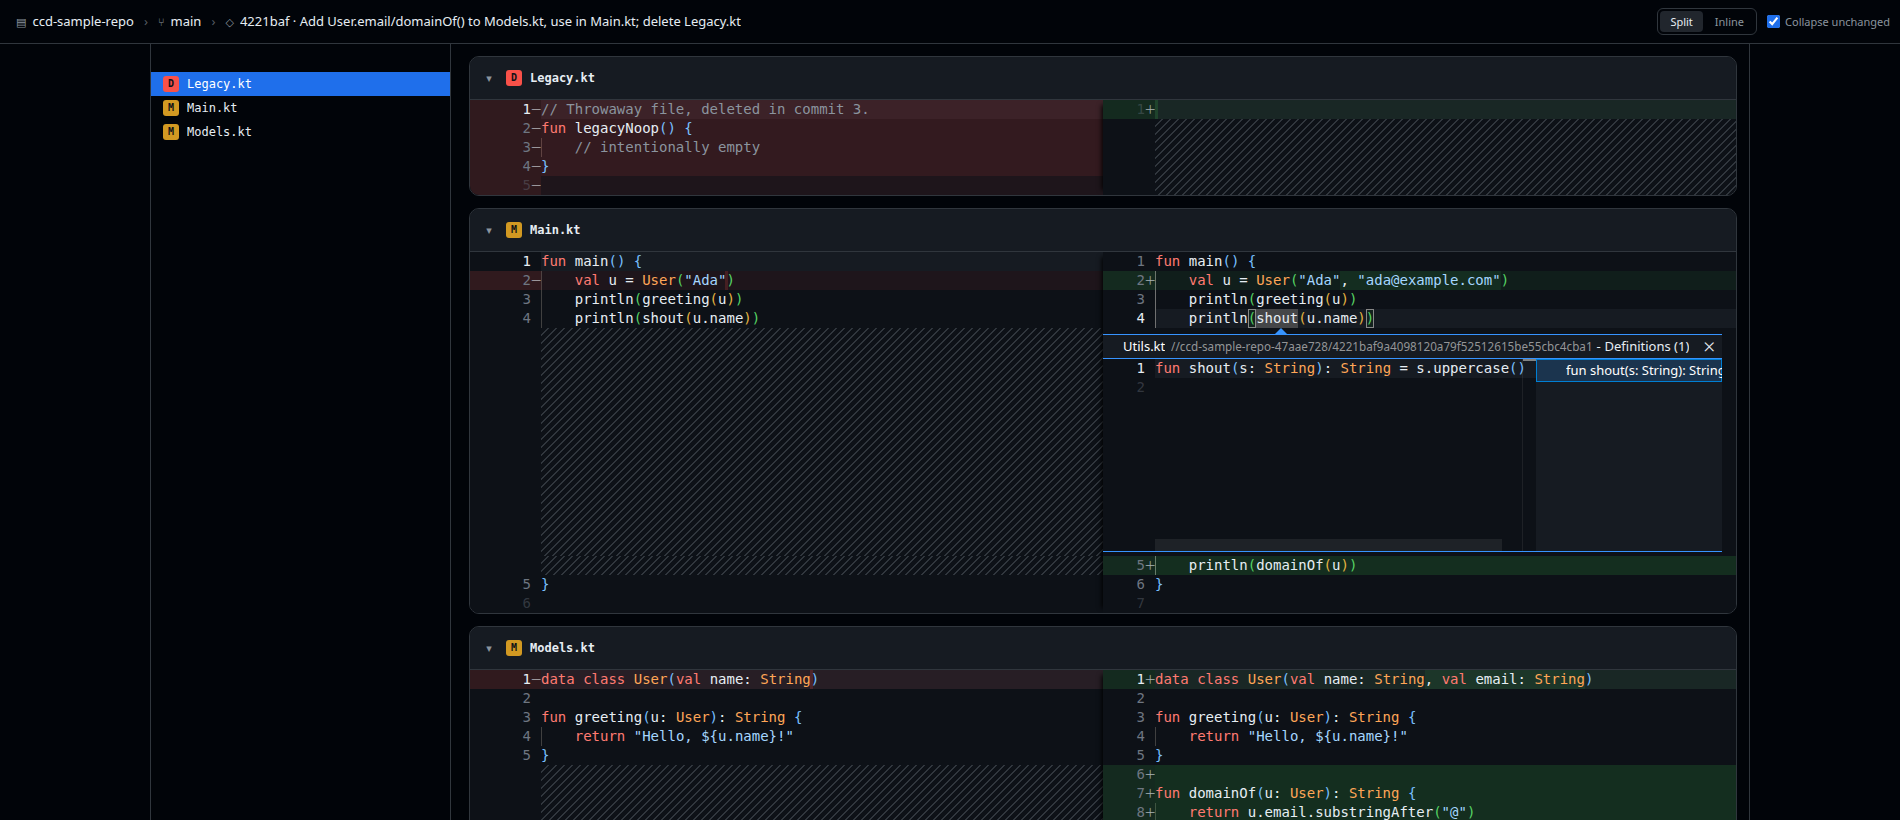
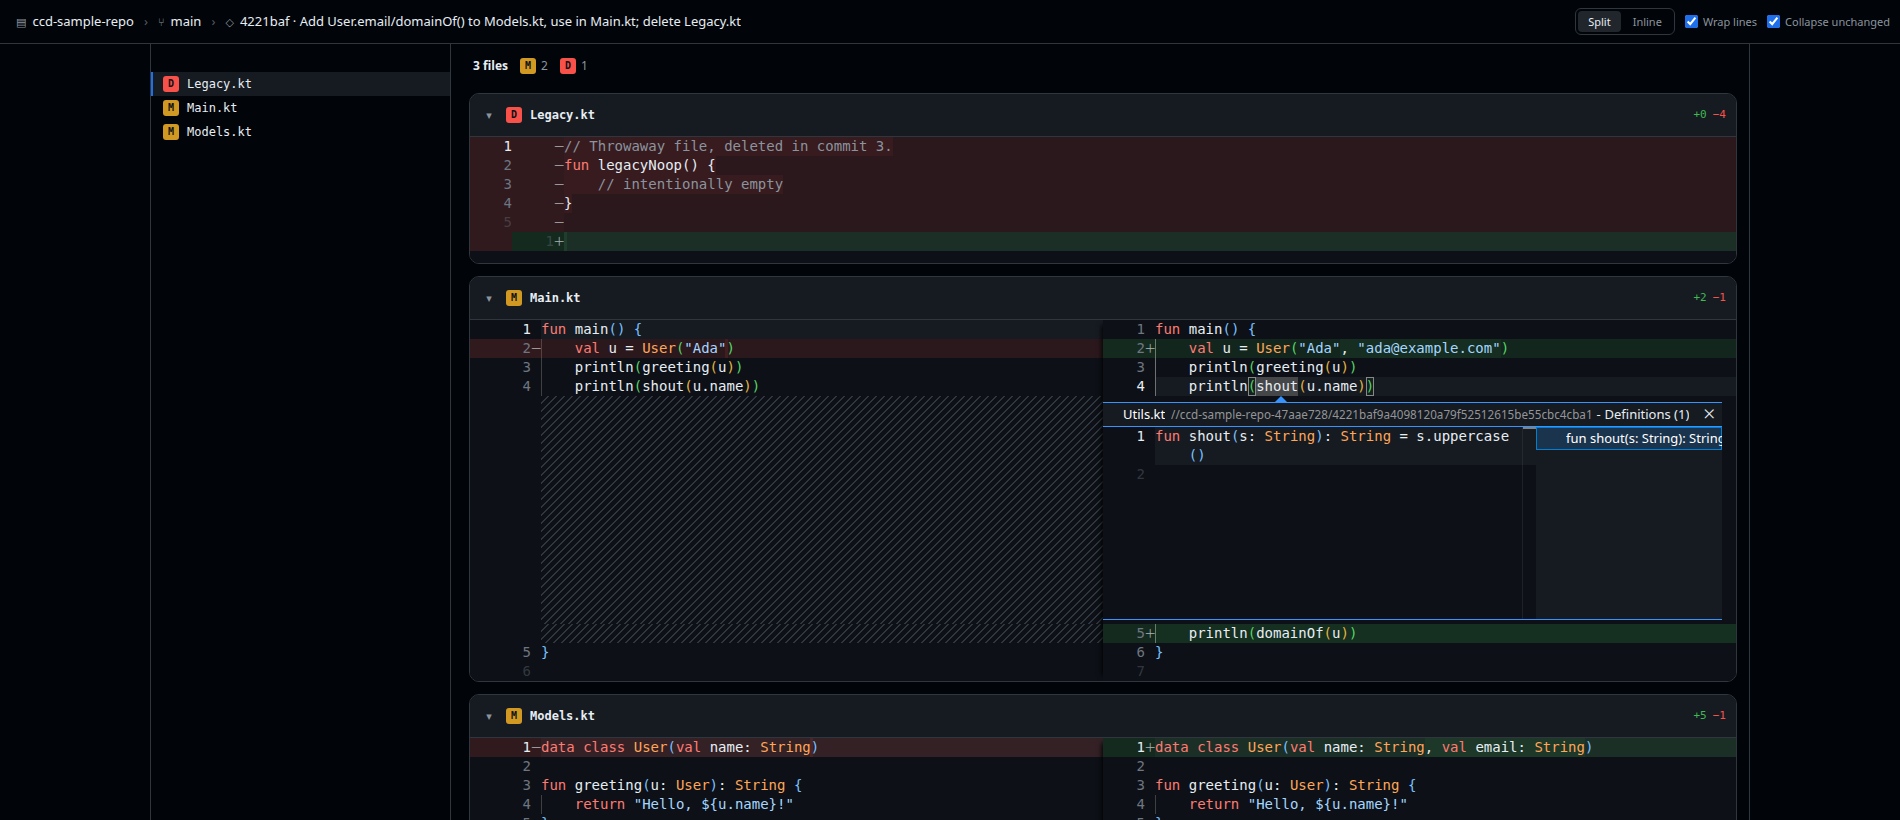
docs: record the diff-readability work and refresh the screenshots
Nine commits changed what the review column looks like and how it behaves, and
three kinds of documentation went stale with them.

CLAUDE.md gains five constraints, all of the "looks arbitrary and is not"
shape: overflow:hidden on a card is what stopped its sticky header sticking
(with the measured -343/-1343/-2343 and the two follow-on facts about negating
the band's padding and Chrome resolving sticky against the content box); an
added or deleted file must not render side by side, and why liveEditors had to
become a Map for that to survive a toggle; word wrap is on because the cap
leaves 633px a pane, with the height-tracks-width consequence and the numbers
showing it settles rather than oscillates; the diff tint is a constrained
optimum with three walls and roughly 8% of available win; and the gutter is
not the free contrast it looks like. Four decisions join "worth not undoing" —
the sidebar reports rather than chooses and must not outshout the diff, every
sidebar row is a control, the empty state lives in the band and carries an
action, and setStatus's severity with colour as the redundant half.

The Verification section gains the part that would otherwise have to be
rediscovered: the fixture repos actively lie about the reading surface. Their
Kotlin lines are short enough to fit any pane, so "every line of real code is
clipped" was invisible in all three committed screenshots. Plus the four
[…]

Changed region(s): [[0.0621, 0.0, 0.9316, 1.0], [0.9005, 0.6707, 0.9316, 0.7012]]

diff --git a/CLAUDE.md b/CLAUDE.md
@@ -21,7 +21,9 @@ packages/backend    Fastify. server.ts (routes) git.ts (all git) preview.ts (wha
                     resolver/TreeSitterResolver.ts (grep for candidates, parse only those)
                     resolver/grammars.ts (grammar asset paths, keyed by grammar key)
                     resolver/tags/<key>.scm (one hand-authored declarations query per grammar)
-packages/frontend   Vite + Monaco. shell.ts (all UI state) band.ts (the review column)
+packages/frontend   Vite + Monaco. shell.ts (all UI state)
+                    band.ts (the review column — cards, plus the summary above them
+                      and the empty state that replaces them)
                     diff.ts (one file's editor) defprovider.ts api.ts
                     peekscope.ts (the review, as seen by peek's candidate list)
                     deeplink.ts (the review as a URL — parse and serialize, an inverse pair)
@@ -75,6 +77,26 @@ a single check: for each it loads the wasm, compiles its `tags.scm`, and parses 
 asserting the capture names it promises actually appear. A registered language with no `SAMPLES`
 row is itself a smoke failure, naming the language — a grammar nothing exercises can break, or ship
 broken, without this ever noticing.
+
+**Anything about how the diff *looks* has to be measured in a browser, and the fixture repos will
+lie to you.** Their Kotlin lines are short enough to fit any pane, so the single largest problem in
+the reading surface — every line of real code clipped at the pane edge — was invisible in all three
+committed screenshots. Audit against a real repository (this one works: register it and deep-link a
+few of its own commits) and read the numbers rather than the impression:
+
+- `.view-line` truncation is **not** `scrollWidth`, which returns a 1e6 sentinel on a Monaco line.
+  Measure where the line's last span actually ends against the scrollable viewport's right edge.
+- `.editor.original` exists in the DOM in single-pane mode too — Monaco keeps both inner editors and
+  collapses one — so its **width** is the question, never its presence.
+- Wait for a `.line-insert`/`.line-delete` decoration, not just `.monaco-diff-editor`: the editor
+  element exists before the diff is computed, and a screenshot taken in that window shows an
+  undecorated file that looks exactly like a regression. This produced a confident false failure
+  while auditing, on top of the three traps already listed below.
+- `getComputedStyle` rounds alpha to 2dp (`0.1255` → `"0.13"`), so a contrast check reading colours
+  back from the DOM is slightly pessimistic against the 8-digit hex the theme declares.
+
+The blur and greyscale passes are the ones that catch misallocated weight, and they are worth more
+here than any single ratio: blur the screenshot and the dominant shape must be the changed lines.
 
 **Ctrl+click latency has a recorded baseline; beat it or explain why.** Measured against
 `~/lets-plot` (2646 `.kt`, 9.6 MB, blobless clone), backend at `REPO_ROOT=~/lets-plot`, one
@@ -250,11 +272,80 @@ unaffected (it isn't the worker), `ts.worker` never spawns with everything off, 
 
 **The four `diffEditor.*Background` colours must be translucent 8-digit hex.** Monaco registers
 them `needsTransparency`; an opaque tint paints over selection and search highlights inside a
-changed line. The word-diff tint is 10% rather than the 15% that reads best alone, because it
-stacks on the line tint and the darkest syntax colour otherwise falls below WCAG AA (4.34:1).
+changed line.
+
+**The diff tint is a constrained optimum with almost no slack, and three walls hold it there.**
+Line 13% / word 6% puts an added line at 1.20:1 against the canvas and a removed one at 1.14:1 —
+up from 1.11 and 1.07, and that ~8% is the whole available win. (1) `comment` `#8b949e` is the
+darkest token in the theme and only 5.0:1 on bare canvas, and it must stay ≥4.5:1 read *through*
+line and word tints stacked; swept in 1/255 steps the frontier is line `0x2c` / word `0x07`, and
+past line `0x2f` **no** word tint keeps AA. (2) Raising the line tint *costs* the word diff, which
+is read against the line under it: line `0x26`/word `0x0a` buys a 1.25:1 line and collapses the
+word highlight to 1.07:1, which is not a highlight. (3) The gutter looks like free contrast and is
+not — see the next paragraph. Two dead ends worth not re-walking: more alpha fails AA, and **no**
+alpha makes added and removed distinguishable in greyscale (green and red at equal alpha land at
+the same luminance — 1.03:1 apart at 8%, still only 1.13:1 at 28%), so the `+`/`−` glyph is the
+non-colour carrier and has to stay. The one lever that would open real headroom is lightening
+`comment`, which changes how the theme reads and needs its own commit. For calibration: GitHub
+dark's own added line is also 1.20:1 — a diff tint simply *is* a low-contrast signal, so a
+"raise it to 3:1" instinct is wrong.
+
+**`diffEditorGutter.*` stays at 15%, and the reason is only visible on an added file.** Nothing but
+the line number `#6e7681` sits on it, and it takes 20% before that drops under 3:1 — so it reads as
+free contrast. It is not: in single-pane mode Monaco renders the empty side as one degenerate line
+and paints its status down the full height of the 42px original column, so an all-**added** file
+carries a red stripe its whole length (correct on a deleted file, false on an added one). Raising
+the gutter amplifies that false signal faster than it helps the modified files it was meant for,
+which the line wash already carries. Found by the blur test, not by reading the code.
 
 **`diffEditor.unchangedRegionBackground` defaults to `sideBar.background`**, a workbench colour
 standalone Monaco never registers. Unset, the collapsed-region bars render unstyled.
+
+**`overflow: hidden` on a card is what stopped its sticky header sticking, for the whole life of
+the band.** Any overflow other than `visible` gives an element a scrolling box, and a sticky
+descendant sticks within its *nearest* such box — so `.ccd-card { overflow: hidden }` made the card
+its own header's scrollport, and a card never scrolls, so `top: 0` resolved to the card's own top
+and the header rode away with it. Measured before the fix, header top at scrollTop 400/1400/2400:
+**−343 / −1343 / −2343**, never pinned once, while both the README and the rule's own comment
+claimed it worked. The clip that rounds the editor's corners now lives on `.ccd-card-body`, which is
+not an ancestor of the header. Two related facts: the header's `top` is the band's padding
+**negated** (`--ccd-band-pad`, because a scroll container paints scrolled content over its padding,
+so pinning at the content edge leaves a 12px strip of the previous lines showing above it), and
+Chrome resolves a sticky offset against the scroll container's **content** box — measured, `top: 0`
+pinned at band-top + padding, not at band-top.
+
+**An added or deleted file must not render side by side.** There is no "before" to compare, so one
+pane holds nothing and Monaco fills it with diagonal hatch: measured on `deeplink.ts`, **1,195,936
+px² of hatch against 1,141,200 px² of visible card**, with all the content squeezed into the other
+633px pane. `viewOptions` therefore takes the file's status, and `liveEditors` is a `Map` from
+editor to status rather than a `Set` — that pairing is the point, because `applyViewOptions` would
+otherwise push a bare `renderSideBySide: sideBySide` over the override on the next toggle and put
+the empty pane back. After: hatch is 3.7% of the card. Verify both directions when touching this —
+an added file must hold 42/1224 across a full Split→Inline→Split trip, and a modified file must
+still swing 633/633 ↔ 42/1224.
+
+**Word wrap is on by default because the cap plus a sidebar leaves 633px a pane.** `--ccd-content-w-max`
+used to claim it was "wide enough that neither pane wraps"; true of the fixture repos, false of real
+code — this project's own `shell.ts` has 899px lines, so **113 of 113** rendered lines of
+`deeplink.ts` were clipped, and Monaco's horizontal scrollbar is `opacity: 0` until hovered so
+nothing said text was missing. The consequence to know: content height now depends on pane *width*,
+so dragging the sidebar re-wraps and re-fires `onDidContentSizeChange`. That is not a loop —
+measured across a full drag of the clamp and back, 20 writes, 14 distinct heights,
+4667px → 5275px → back to exactly 4667px, zero further writes after release — because the guard in
+`syncHeight` is against height→height and `scrollBeyondLastLine: false` keeps content height
+independent of viewport height.
+
+**Per-file churn comes from Monaco, not git, and will not equal `git diff --numstat`.**
+`FileDiff.churn()` reads `getLineChanges()`, which is the same list the `.line-insert` tinting is
+drawn from — so the header agrees with the coloured lines under it, which is the property that
+matters. On `shell.ts` it reports +98/−14 where *every* git algorithm (myers, minimal, patience,
+histogram, with and without the indent heuristic) says +96/−12: both are valid diffs, drawn with
+different hunk boundaries. Matching git would print a number contradicting the pixels. Two counting
+bugs that are already fixed and would come back if the clamp is removed: a text model counts the
+empty string after a trailing newline as a line and git does not (a whole-file add read "+113" for
+112 lines), and `loadModels` hands an added file `''` for its original — one empty line — so the
+same file read "−1", the absence of the file counted as a deletion. Both fall out of clamping each
+side to its own real line count, which is a true invariant rather than two special cases.
 
 **`onDidUpdateDiff` is not "the diff is ready".** It is `Event.fromObservableLight` over the diff
 model, so it fires on every transition including `result → undefined` during a `setModel`. The
@@ -734,6 +825,35 @@ survivors. It is `log` and not `rev-list` purely to keep the permitted-subcomman
 - **Tree collapse state is in memory only.** A stale persisted collapse can hide a changed file
   from a review, which is a correctness hazard. Sidebar width *is* persisted; that is a
   preference, not a view of the data.
+- **What the sidebar reports must never outshout what the diff shows.** `activePath` is *reported*
+  by the band's IntersectionObserver, not chosen by a click, and it used to render as a full-bleed
+  accent fill — 4.08:1 against the canvas, against a diff at 1.20:1, so a passive scroll-position
+  marker carried 3.5× the contrast of the thing it pointed at and was the strongest shape on a
+  blurred screenshot. Now a subtle surface plus a 2px inset accent rule: ratio 1.0×, and the accent
+  is free to mean "something changed here". The blur test is what decides this, not an opinion —
+  squint at it, and the dominant shape must be the changed lines.
+- **Every row of the sidebar is a control, both kinds.** `dirItem` had `role=button` + `tabIndex 0`
+  from the start and `fileRow` did not, so the tab order could expand a directory and then reach
+  nothing inside it — the destinations of the app's primary navigation were mouse-only. Making a row
+  a control also makes its accessible name audible, which is why the one-letter badge is
+  `aria-hidden` and the row is labelled "`<path>`, added": the letter is a glyph, and a glyph is a
+  poor thing to hear. The badge stays one letter, because that is the entire reason it is one.
+  Deliberately *not* a full `role=tree` with roving tabindex — matching the sibling pattern is what
+  removes the blocker; tree semantics are their own change.
+- **The empty state lives in the band and carries an action.** "No reviewable source files changed"
+  used to be one muted 12px line in the corner of the sidebar beside 1290×850 of empty canvas —
+  easy to miss, and it named a fault without a remedy, so it read as a broken tool. It is now a
+  block where the reader is looking, with why it happened and a button into the commit palette
+  (`BandHooks.onChooseCommits`, a hook because the palette needs state only the shell has). The
+  languages are still named as a *category*: `641f86e` removed the extension list because a sentence
+  spelling out a dozen suffixes stops being a sentence, and moving the sentence did not change that.
+- **`setStatus` carries a severity, and the colour is the redundant half.** One slot holds
+  "Loading commits…" and "Error loading diff: …", and at one colour a dead request looked exactly
+  like a slow one. Errors render in `--ccd-danger`; every message that passes `'error'` already
+  begins with the word, so the red confirms rather than carries. The element is `role=status`
+  (polite, not assertive — this slot carries routine progress and would otherwise interrupt on
+  every fetch). Check *recovery* when touching it: a sticky error class leaves the next "Loading…"
+  painted as a failure.
 - **An out-of-review peek row is greyed, not labelled, and that was measured rather than chosen.**
   A "· not in this commit" suffix was written and taken out: the peek's tree pane is ~150px, a
   filename needs ~52px and the note ~95px, so the two cannot both render. Pinning the note clipped

diff --git a/README.md b/README.md
@@ -53,9 +53,10 @@ CtrlClickDiff gives you both at once: a real diff, with language-aware navigatio
 
 ![Every changed file stacked in one scroll, unchanged regions collapsed](docs/screenshot-wide.png)
 
-A wide change on a feature branch. **Every changed file is stacked in one continuous scroll**, next
-file directly below the last, each under a sticky header naming it — so reviewing twelve files is
-one gesture, not twelve. The sidebar collapses the deep Kotlin package
+A wide change on a feature branch. It opens by saying how big it is — **12 files**, broken down by
+added/modified/deleted — and then **every changed file is stacked in one continuous scroll**, next
+file directly below the last, each under a sticky header naming it and its `+n −m`, so reviewing
+twelve files is one gesture, not twelve. The sidebar collapses the deep Kotlin package
 `src/main/kotlin/org/example/wide` into a **single row** instead of five nested ones, and unchanged
 regions fold away — so a 2-line edit inside a 120-line file is all that's on screen, under a
 `60 hidden lines` bar you can click to expand. The header is a breadcrumb of what you're reviewing:
@@ -103,14 +104,22 @@ you can review several commits as one diff.
 
 - **One continuous scroll** over every changed file, not one file at a time. The sidebar tree
   scrolls you to a file and highlights whichever one you've scrolled to; each file's header has a
-  chevron to fold that file away.
-- **Side-by-side or inline**, toggled live.
+  chevron to fold that file away, and shows how many lines that file adds and removes.
+- **A count before the code** — how many files the selection touches, and how many are added,
+  modified or deleted.
+- **Side-by-side or inline**, toggled live. An added or deleted file always renders as one pane,
+  because there is no "before" to compare it against.
+- **Long lines wrap** rather than running off the edge, with a toggle. Two panes inside a capped
+  column are narrower than real code, and a clipped line is worse than a wrapped one when the
+  scrollbar that would reveal it only appears on hover.
 - **Unchanged regions collapsed** by default (at `git diff -U3` context), with a toggle to show
   everything.
 - Word-level change highlighting and a GitHub Primer dark theme, with contrast checked to WCAG AA
   over the diff tints.
-- **Drag-resizable sidebar** — double-click the seam to reset. Sidebar width and both view toggles
-  persist across reloads.
+- **Keyboard-reachable** — every row of the changed-file tree is a real control, so the whole
+  review can be navigated with Tab and Enter.
+- **Drag-resizable sidebar** — double-click the seam to reset. Sidebar width and all three view
+  toggles persist across reloads.
 
 ### Live updates
 
